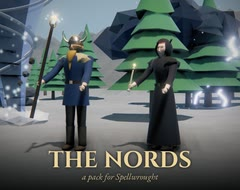
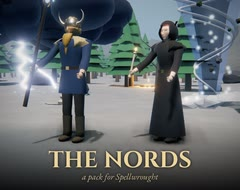
Spellwrought page: the Nords thumb from the 0.1.4 cover (storm cloud + tornado)

diff --git a/spellwrought/index.html b/spellwrought/index.html
@@ -170,7 +170,7 @@
       <div><h3><a href="https://glimmerveil.itch.io/spellwrought-elves" target="_blank" rel="noopener">The Elves</a></h3><p>Two heroes of the forest, the moon, and spells that take root. The Ranger fans arrows and shoots thorns that go through; the Druid calls living vines, brambles and bark over the skin. <a class="get" href="https://glimmerveil.itch.io/spellwrought-elves" target="_blank" rel="noopener">Get it · $10</a></p></div></article>
     <article class="pack"><a href="https://glimmerveil.itch.io/spellwrought-arcane" target="_blank" rel="noopener"><img src="media/pack-arcane-t.jpg" width="120" height="95" loading="lazy" alt="The Arcane: the Time Mage and the Enchanter in violet robes on dark stone"></a>
       <div><h3><a href="https://glimmerveil.itch.io/spellwrought-arcane" target="_blank" rel="noopener">The Arcane</a></h3><p>Bend time, sleep your foes, and let the crystals grow. The Time Mage throws time bolts and time bubbles; the Enchanter enchants a weapon, and the ward, sleep and the crystal sentinel wait deeper. <a class="get" href="https://glimmerveil.itch.io/spellwrought-arcane" target="_blank" rel="noopener">Get it · $10</a></p></div></article>
-    <article class="pack"><a href="https://glimmerveil.itch.io/spellwrought-nords" target="_blank" rel="noopener"><img src="media/pack-nords-t.jpg" width="120" height="95" loading="lazy" alt="The Nords: the Stormcaller in a horned helm and the Witch in black, in snowy pines"></a>
+    <article class="pack"><a href="https://glimmerveil.itch.io/spellwrought-nords" target="_blank" rel="noopener"><img src="media/pack-nords-t.jpg" width="120" height="95" loading="lazy" alt="The Nords: the Stormcaller in a horned helm under his storm cloud and the Witch in black with a tornado behind her, in snowy pines"></a>
       <div><h3><a href="https://glimmerveil.itch.io/spellwrought-nords" target="_blank" rel="noopener">The Nords</a></h3><p>Call the storm, curse your foes, and send the ravens. The Stormcaller brings lightning and the gale; the Witch hexes foes weak and mends with a charm. <a class="get" href="https://glimmerveil.itch.io/spellwrought-nords" target="_blank" rel="noopener">Get it · $10</a></p></div></article>
     <article class="pack"><a href="https://glimmerveil.itch.io/spellwrought-dwarves" target="_blank" rel="noopener"><img src="media/pack-dwarves-t.jpg" width="120" height="95" loading="lazy" alt="The Dwarves: the Runesmith and the Golemancer in a woodland ruin"></a>
       <div><h3><a href="https://glimmerveil.itch.io/spellwrought-dwarves" target="_blank" rel="noopener">The Dwarves</a></h3><p>Runes, forges and golems that fight beside you. The Runesmith rolls boulders and breaks with runes; the Golemancer hurls stone and raises a golem of clay. <a class="get" href="https://glimmerveil.itch.io/spellwrought-dwarves" target="_blank" rel="noopener">Get it · $10</a></p></div></article>
